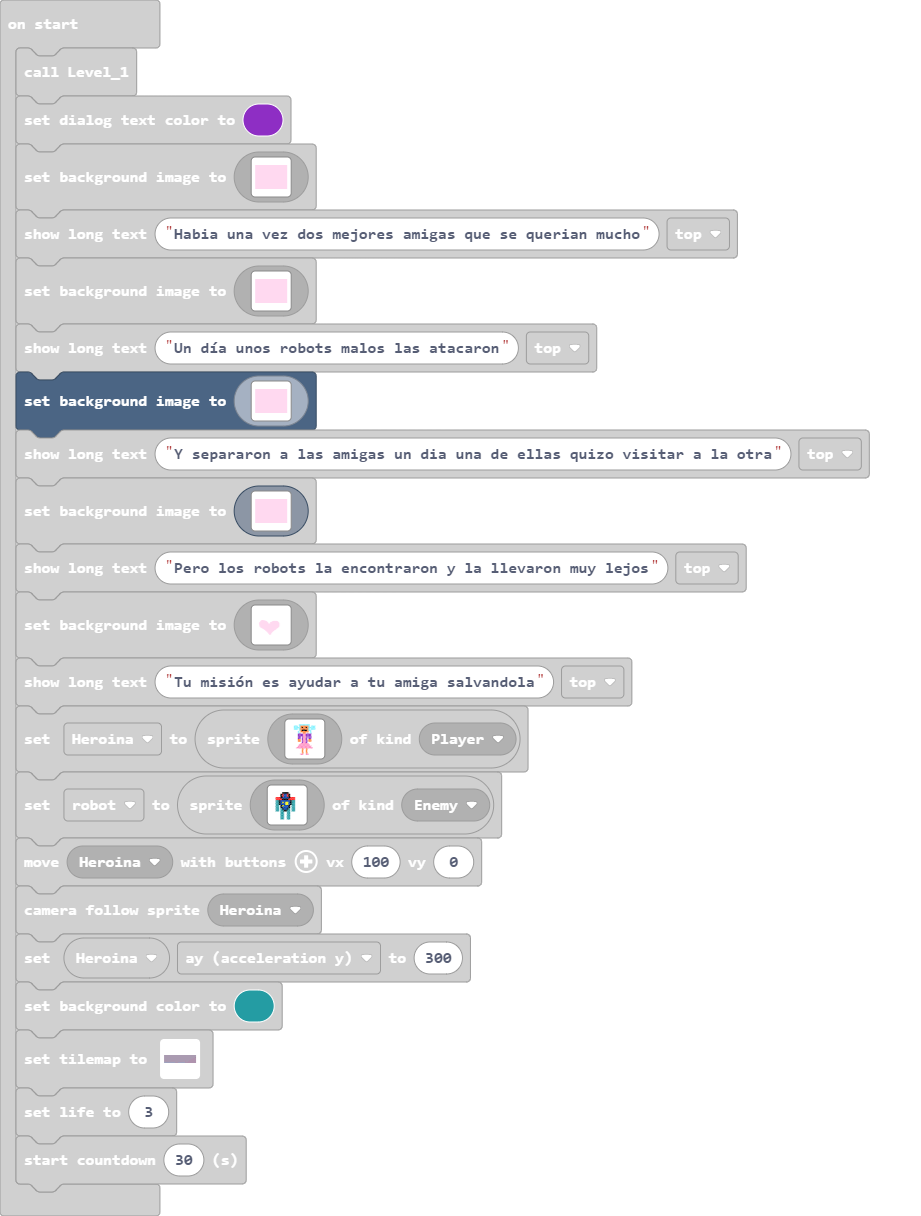
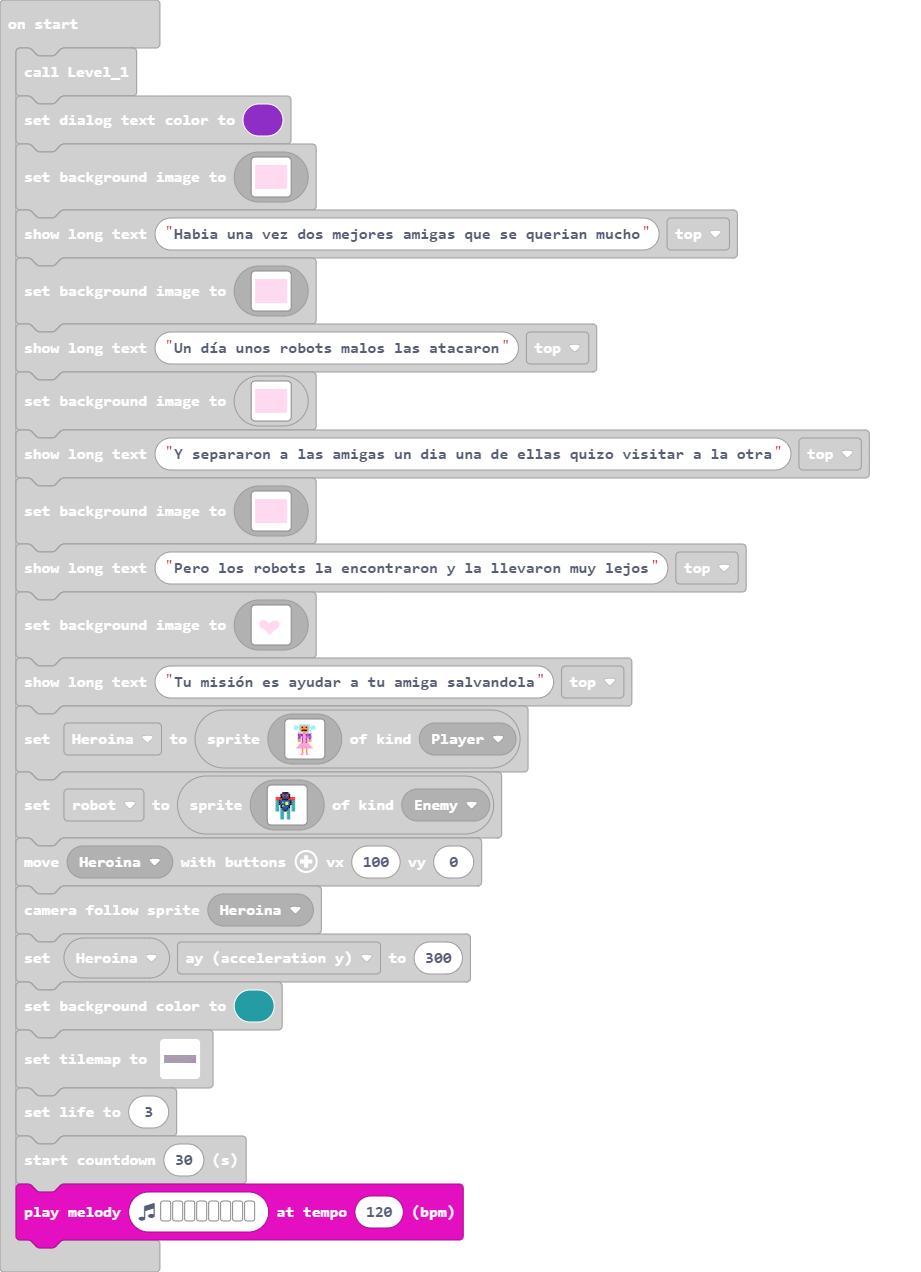
puse melodia

Changed region(s): [[0.0, 0.0312, 0.9425, 1.0]]

diff --git a/main.ts b/main.ts
@@ -775,6 +775,7 @@ tiles.setTilemap(tiles.createTilemap(hex`400010000303030303030303030303030303030
     `, [myTiles.transparency16,myTiles.tile3,myTiles.tile4,myTiles.tile5,myTiles.tile6], TileScale.Sixteen))
 info.setLife(3)
 info.startCountdown(30)
+music.playMelody("C5 B A G F E D C ", 120)
 game.onUpdate(function () {
     if (Heroina.tileKindAt(TileDirection.Bottom, myTiles.tile4)) {
     	
